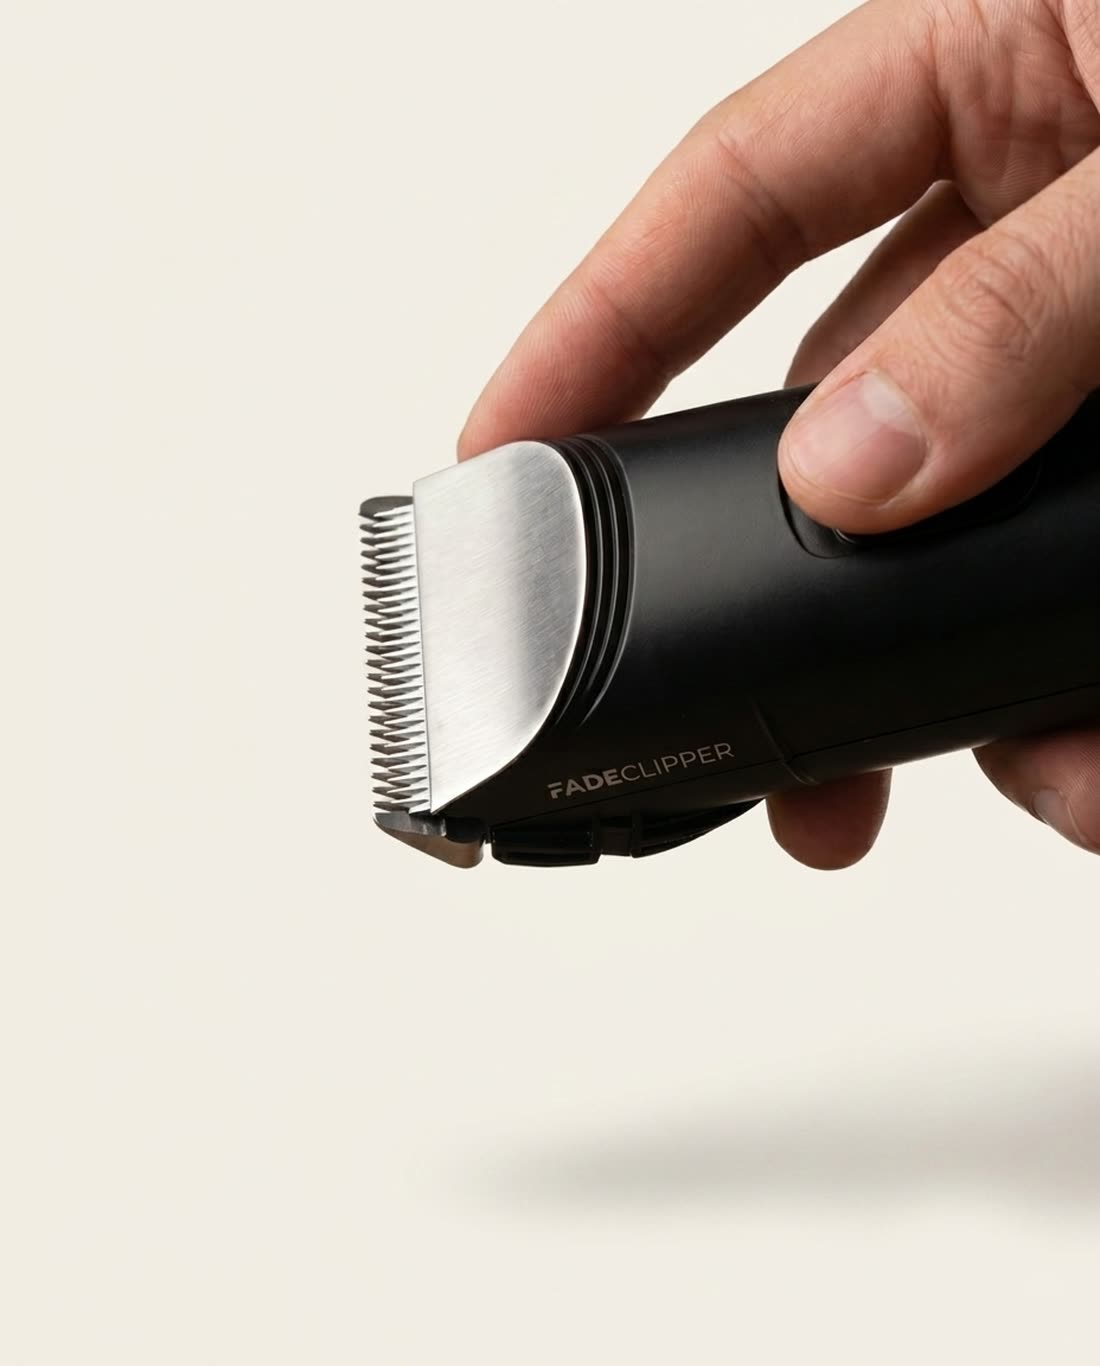
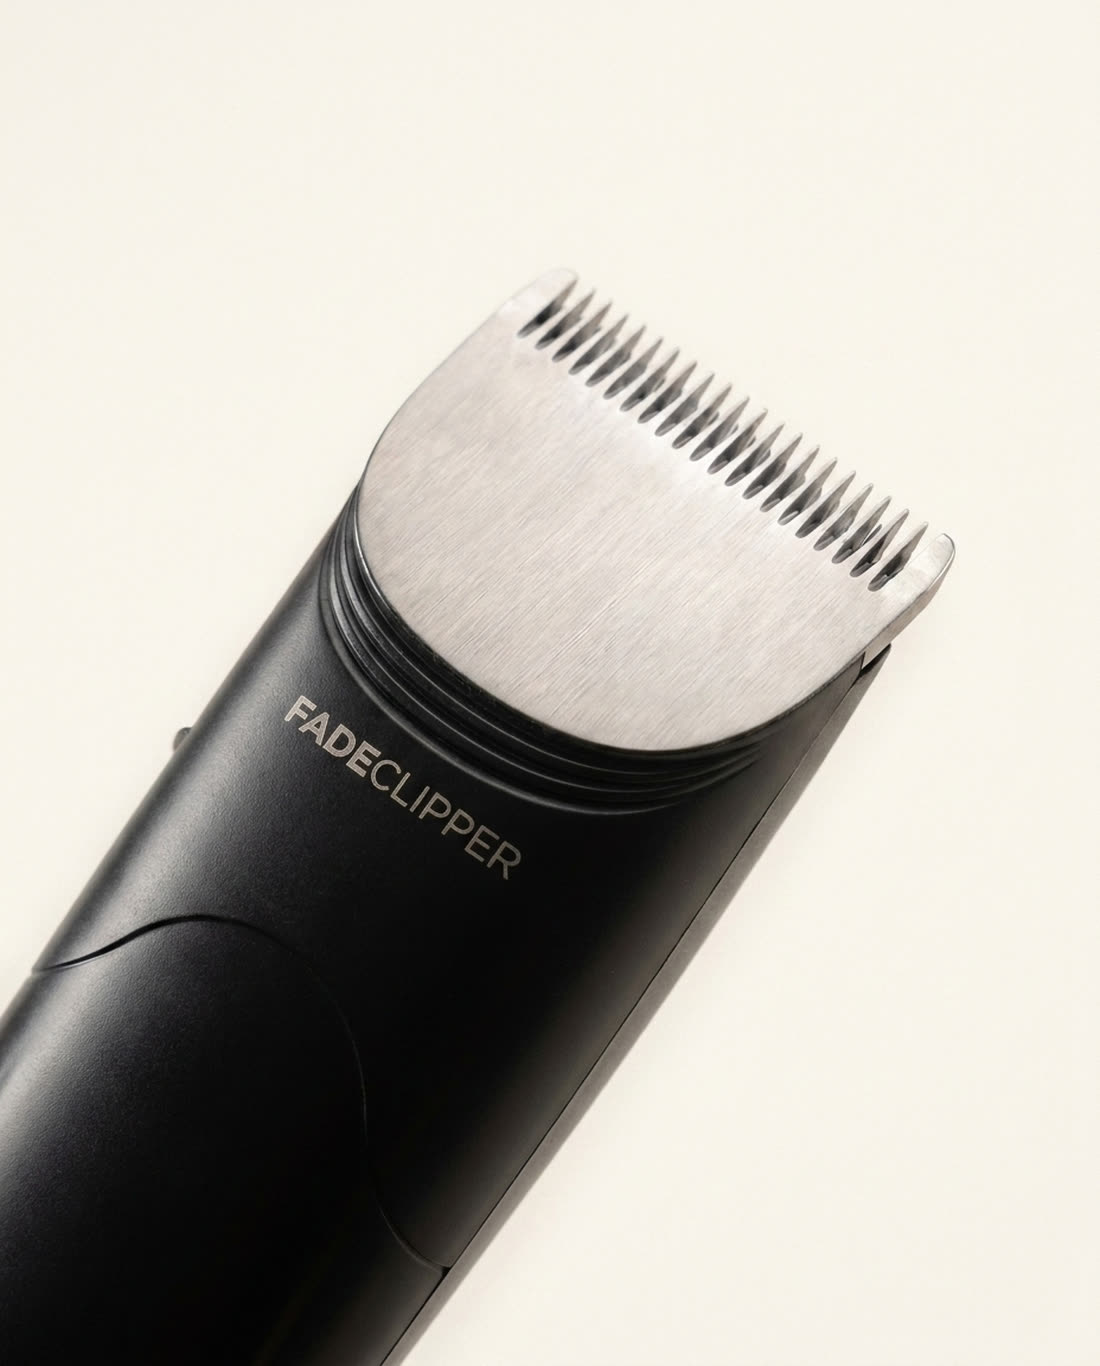
Bigger hero product, press bar, comparison table, blade detail
- New large hero shot (clipper fills the frame) + blade macro at a ~45° angle,
  both photoreal and warm-matched.
- "As featured in" press bar (wordmarks) — clearly caveated in code as
  replace-or-remove unless coverage is real.
- High-converting comparison table: FadeClipper vs ordinary clipper vs barber
  (honest feature-by-feature, cost in year one).
- Blade-detail section explaining the 45-degree auto-fade head.

Claude-Session: https://claude.ai/code/session_012CmvS84b1qb4QF9neLQsUJ

diff --git a/components/ComparisonTable.tsx b/components/ComparisonTable.tsx
@@ -1,0 +1,71 @@
+import { Check, X } from "lucide-react";
+
+type Cell = boolean | string;
+const cols = ["FadeClipper", "Ordinary clipper", "Barber visit"];
+const rows: { label: string; values: Cell[] }[] = [
+  { label: "Auto-fades & blends the gradient for you", values: [true, false, true] },
+  { label: "No skill or second mirror needed", values: [true, false, "—"] },
+  { label: "Fade anytime, at home", values: [true, "Hard", false] },
+  { label: "Waterproof, rinse-clean blade", values: [true, "Some", "—"] },
+  { label: "240-min cordless runtime", values: [true, "Varies", "—"] },
+  { label: "Cost in year one", values: ["$59 once", "$30–60", "$900+"] },
+];
+
+function Mark({ v }: { v: Cell }) {
+  if (v === true) return <Check className="mx-auto h-5 w-5 text-brand" strokeWidth={3} />;
+  if (v === false) return <X className="mx-auto h-5 w-5 text-muted/50" strokeWidth={2.5} />;
+  return <span className="text-[0.86rem] font-medium text-ink-2">{v}</span>;
+}
+
+export function ComparisonTable() {
+  return (
+    <div className="overflow-x-auto">
+      <div className="min-w-[640px]">
+        {/* header */}
+        <div className="grid grid-cols-[1.6fr_1fr_1fr_1fr] items-end">
+          <div />
+          {cols.map((c, i) => (
+            <div
+              key={c}
+              className={`px-3 pb-4 text-center ${
+                i === 0
+                  ? "rounded-t-[4px] border-x border-t border-ink bg-ink pt-4 text-paper"
+                  : "pt-4 text-ink-2"
+              }`}
+            >
+              <span className="font-display text-[1rem] font-semibold">{c}</span>
+              {i === 0 && (
+                <span className="mt-1 block text-[0.66rem] font-medium uppercase tracking-[0.12em] text-paper/60">
+                  You
+                </span>
+              )}
+            </div>
+          ))}
+        </div>
+        {/* rows */}
+        {rows.map((r, ri) => (
+          <div
+            key={r.label}
+            className={`grid grid-cols-[1.6fr_1fr_1fr_1fr] items-center ${
+              ri % 2 ? "bg-paper-alt/60" : ""
+            }`}
+          >
+            <div className="py-3.5 pl-1 pr-3 text-[0.92rem] font-medium">{r.label}</div>
+            {r.values.map((v, ci) => (
+              <div
+                key={ci}
+                className={`py-3.5 text-center ${
+                  ci === 0
+                    ? `border-x border-ink bg-brand-soft ${ri === rows.length - 1 ? "rounded-b-[4px] border-b" : ""}`
+                    : ""
+                }`}
+              >
+                <Mark v={v} />
+              </div>
+            ))}
+          </div>
+        ))}
+      </div>
+    </div>
+  );
+}

diff --git a/app/page.tsx b/app/page.tsx
@@ -2,6 +2,8 @@ import { Button } from "@/components/ui/button";
 import { Reveal } from "@/components/Reveal";
 import { SiteNav } from "@/components/SiteNav";
 import { Marquee } from "@/components/Marquee";
+import { PressBar } from "@/components/PressBar";
+import { ComparisonTable } from "@/components/ComparisonTable";
 import { Logo } from "@/components/Logo";
 import {
   Scissors,
@@ -93,6 +95,9 @@ export default function Page() {
         {/* BENEFITS MARQUEE */}
         <Marquee />
 
+        {/* AS FEATURED IN */}
+        <PressBar />
+
         {/* SPECS */}
         <section className="py-[clamp(2.5rem,5vw,4rem)]">
           <div className="mx-auto grid max-w-container grid-cols-2 px-7 md:grid-cols-5">
@@ -175,6 +180,38 @@ export default function Page() {
           </div>
         </Section>
 
+        {/* BLADE DETAIL */}
+        <Section id="blade" alt>
+          <div className="grid items-center gap-[clamp(2rem,5vw,4.5rem)] md:grid-cols-2">
+            <Reveal>
+              <figure className="overflow-hidden rounded-[6px] border border-line">
+                <img src="/assets/img/blade.jpg" alt="FadeClipper auto-fade blade mounted at a 45-degree angle" className="aspect-[4/5] w-full object-cover" />
+              </figure>
+            </Reveal>
+            <div>
+              <p className="eyebrow mb-4">The blade</p>
+              <h2 className="font-display text-[clamp(1.8rem,3.4vw,2.6rem)] font-semibold leading-tight">
+                Engineered to blend — at a 45° angle.
+              </h2>
+              <p className="mt-4 max-w-[46ch] text-[1.06rem] text-muted">
+                The cutting head sits at a 45-degree angle, so the tapered fade blade meets your hair the way
+                a barber's wrist would — blending the gradient as you glide, not chopping a flat line.
+              </p>
+              <ul className="mt-6 grid gap-3">
+                {[
+                  "Triangle static blade + uniquely shaped moving blade",
+                  "Tapers the cut into an automatic gradient",
+                  "Brushed steel — rinse it clean under the tap",
+                ].map((t) => (
+                  <li key={t} className="flex items-center gap-3 text-[1rem] text-ink-2">
+                    <Check className="h-4 w-4 shrink-0 text-brand" strokeWidth={3} />{t}
+                  </li>
+                ))}
+              </ul>
+            </div>
+          </div>
+        </Section>
+
         {/* EDITORIAL BAND */}
         <section aria-hidden="true" className="overflow-hidden">
           <img
@@ -226,6 +263,18 @@ export default function Page() {
               </div>
             </Reveal>
           </div>
+        </Section>
+
+        {/* COMPARISON */}
+        <Section id="compare">
+          <Head
+            eyebrow="How we compare"
+            title="FadeClipper vs. the rest."
+            sub="The auto-fade blade does what ordinary clippers can't — and what the barber charges you for, on repeat."
+          />
+          <Reveal>
+            <ComparisonTable />
+          </Reveal>
         </Section>
 
         {/* IN ACTION */}

diff --git a/components/PressBar.tsx b/components/PressBar.tsx
@@ -1,0 +1,29 @@
+// NOTE: "As featured in" is only honest if FadeClipper has genuinely been
+// covered by these outlets. Replace with real press (or remove this section)
+// before launch — claiming features you don't have is false advertising.
+const press = [
+  { name: "Forbes", className: "font-serif text-[1.7rem] font-bold tracking-tight" },
+  { name: "GQ", className: "text-[1.7rem] font-extrabold tracking-tight" },
+  { name: "Men's Health", className: "text-[1.05rem] font-bold uppercase tracking-[0.05em]" },
+  { name: "Esquire", className: "font-serif text-[1.35rem] font-semibold uppercase tracking-[0.14em]" },
+  { name: "QC", className: "text-[1.55rem] font-extrabold tracking-[0.04em]" },
+];
+
+export function PressBar() {
+  return (
+    <section className="border-b border-line bg-paper py-9">
+      <div className="container-x">
+        <p className="text-center text-[0.68rem] font-semibold uppercase tracking-[0.22em] text-muted">
+          As featured in
+        </p>
+        <div className="mt-6 flex flex-wrap items-center justify-center gap-x-12 gap-y-5 text-ink opacity-70">
+          {press.map((p) => (
+            <span key={p.name} className={p.className}>
+              {p.name}
+            </span>
+          ))}
+        </div>
+      </div>
+    </section>
+  );
+}